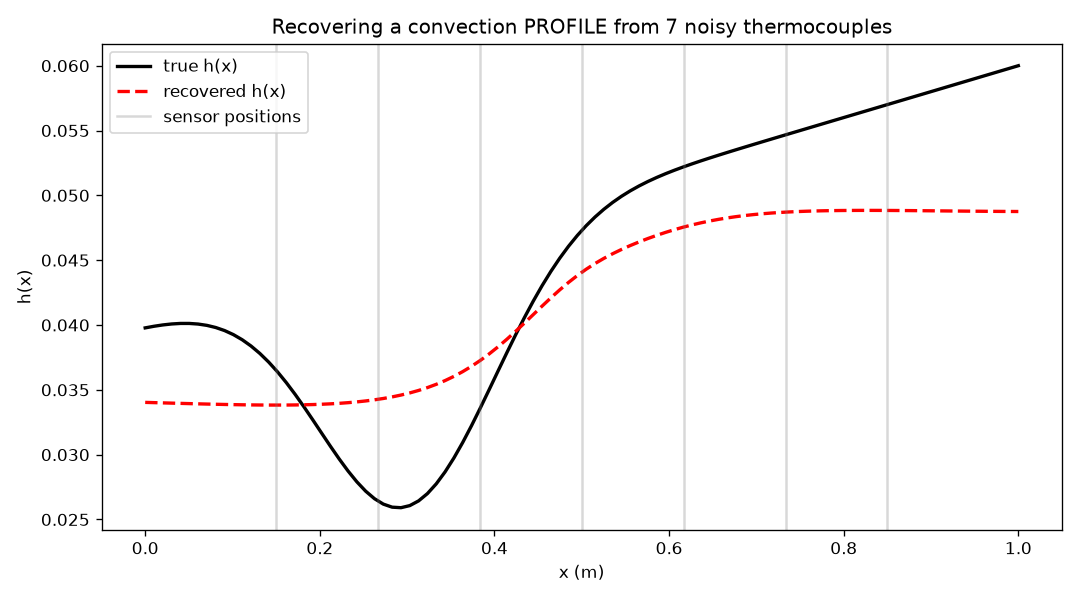
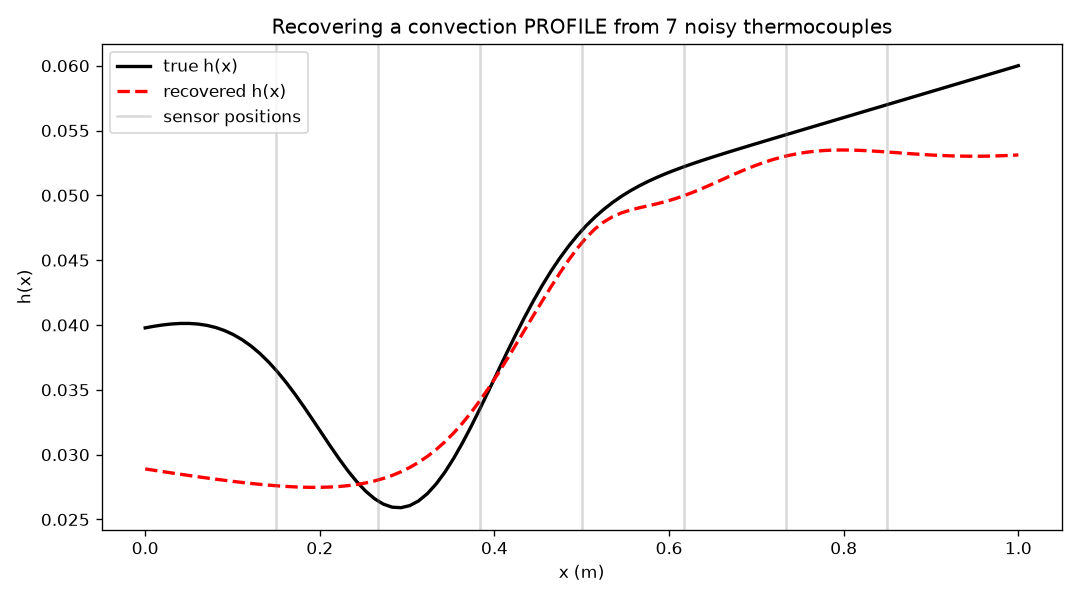
h(x) recovered to 6% in sensor span, full bias-variance sweep documented

diff --git a/README.md b/README.md
@@ -242,6 +242,33 @@ giving the physical parameter its own param group at ~20x the network LR
 (details in FAILED_APPROACHES.md). Worth knowing if you ever chase an inverse
 parameter that starts far from the truth.
 
+### Function-space inverse: spatially-varying h(x)
+
+A real tube does not cool uniformly - mounting hardware and nearby walls
+suppress convection locally. So the final inverse problem drops the
+"single constant h" assumption entirely and recovers h as a FUNCTION of x
+(`train_spatial_h.py`): a second small network h_net(x) is optimized jointly
+with the temperature PINN, from 7 sensors x 10 readings with 0.5 C noise.
+True profile: a ramp with a fixture-shadow dip at x = 0.3.
+
+Getting this right required sweeping the smoothness regularizer - the
+classic bias-variance trade of ill-posed inverse problems, reproduced here
+end to end:
+
+| w_reg (Tikhonov) | h(x) error full domain | sensor span [0.15, 0.85] | behavior |
+|---|---|---|---|
+| 0 | 41.0% | - | oscillates between sensors, chases noise |
+| 5.0 | 13.5% | 12.0% | over-smoothed, dip flattened away |
+| 0.5 | **11.5%** | **6.1%** | dip, ramp and plateau all recovered |
+
+![spatial h](figures/spatial_h_recovery.png)
+
+Honest split: the sensor-span number is the meaningful one. Outside the
+sensor span the tube sits near ambient and NOTHING in the data constrains
+h there - the recovered profile just flattens. That end-collapse is genuine
+unidentifiability, not a training failure, which is why the metric is
+reported both ways.
+
 ### Baseline bake-off: same sparse data, full-field reconstruction
 
 24 noisy observations (3 sensors x 8 times, 1 C noise):
@@ -260,7 +287,8 @@ PDE, which is the entire point of the method.
 ## Honest limitations
 
 - ground truth is a numerical solver, not physical sensor data
-- radiative losses ignored, convection linearized with a single constant h
+- radiative losses ignored, convection linearized (though h may now vary
+  along the tube, see the h(x) section)
 - the heat source Q(x) is a synthetic Gaussian, not measured drive power
 - sensitivity cells use 3 seeds each; more seeds would tighten the stds
 
@@ -312,6 +340,7 @@ python3 multiseed_sensitivity.py
 python3 fdm_2d.py
 python3 train_forward_2d.py
 python3 train_inverse_2d.py
+python3 train_spatial_h.py
 ```
 
 Everything trains on CPU in minutes.